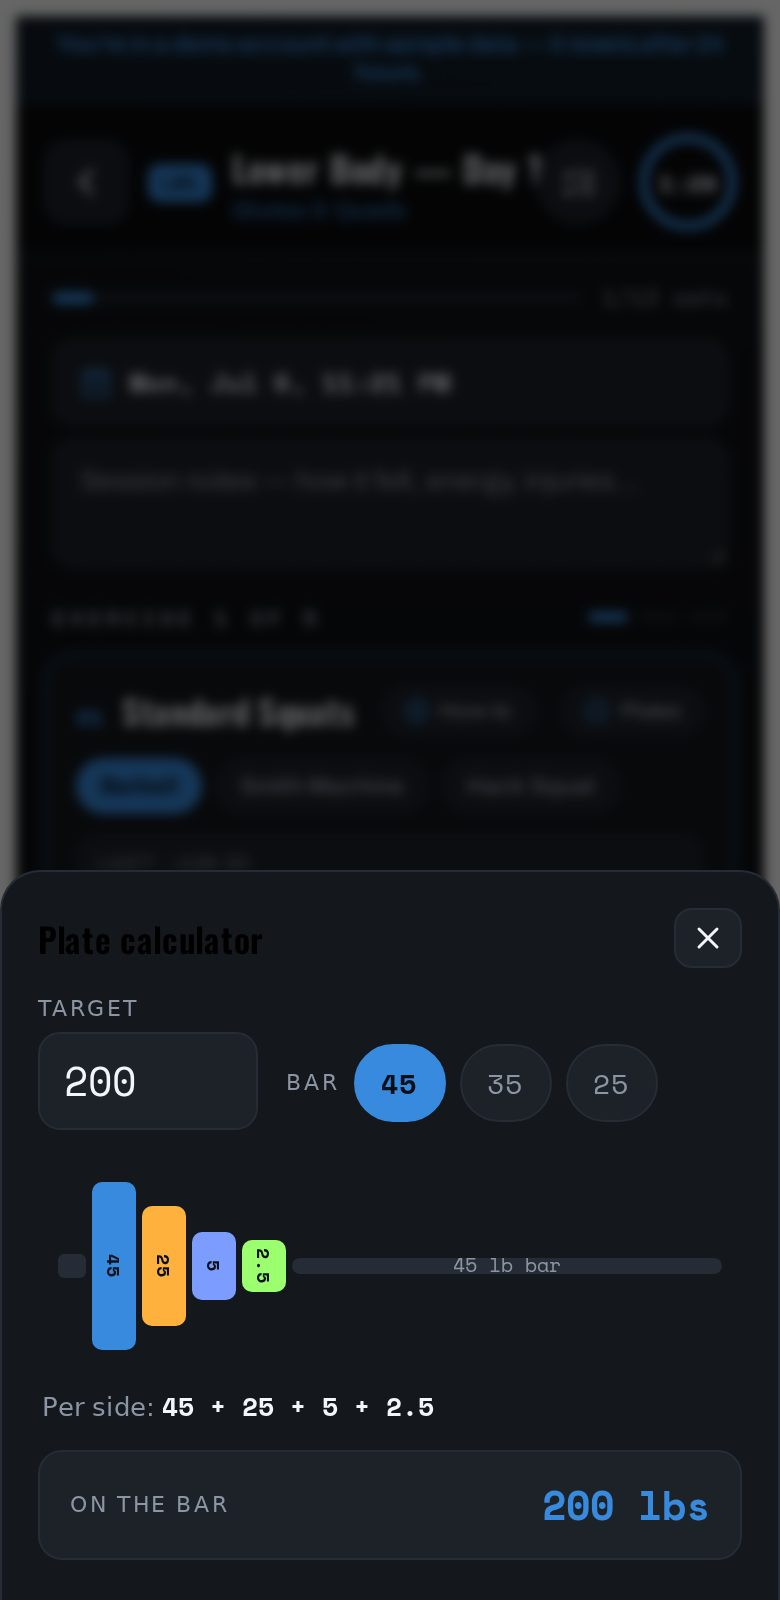
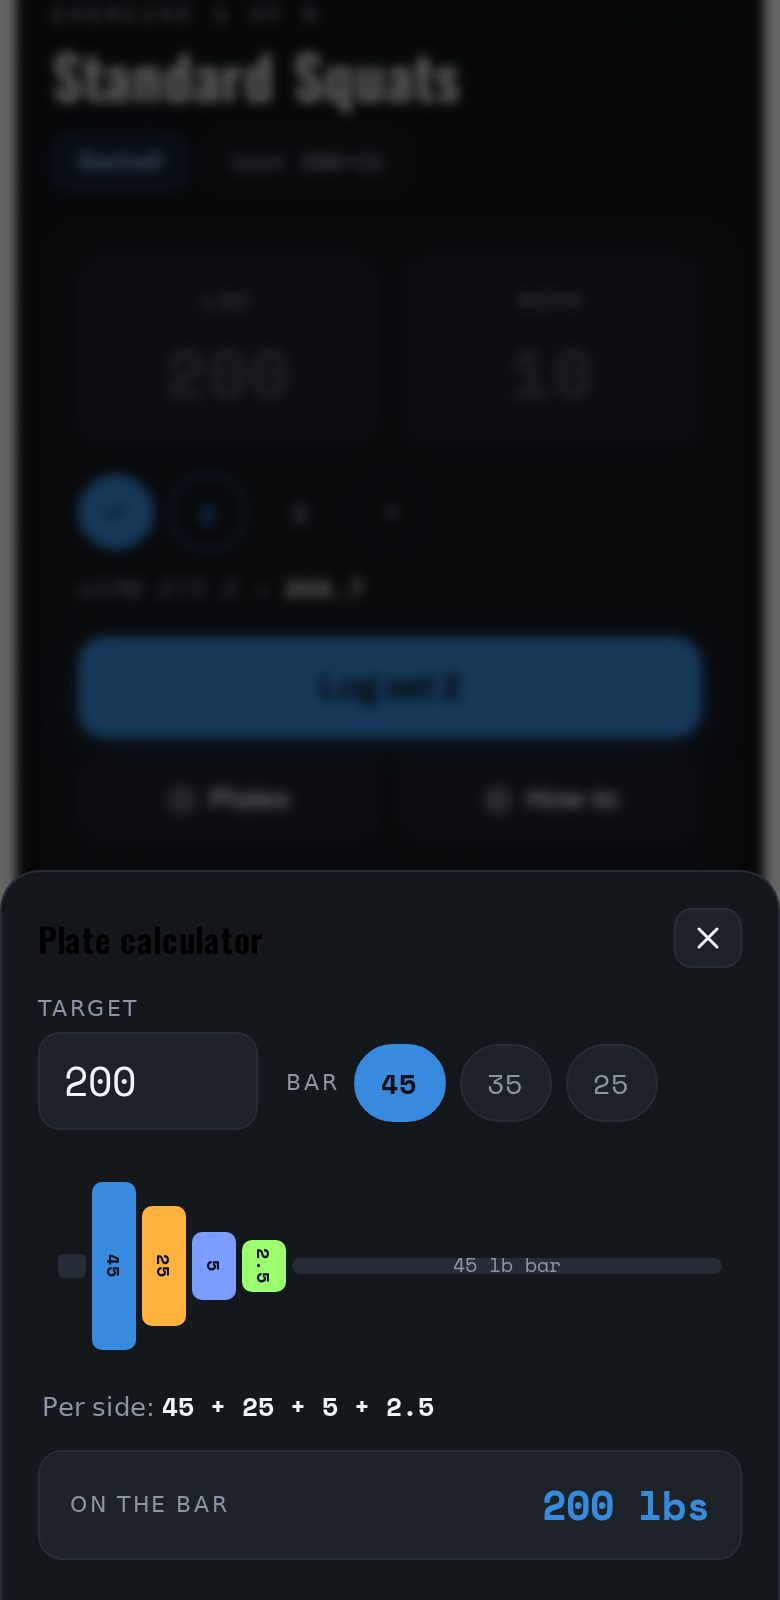
Focus mode v2: set-logger HUD (one set at a time)
Rebuilds the live-session focus screen around a single set, per design mock
— frontend only, no API or data-shape changes:

- Top strip "{TAG} · LIVE  {done}/{total} SETS" (EDITING when re-opened
  from History); progress bar + date/notes move below the HUD flow.
- Hero: "EXERCISE N OF M" eyebrow, big exercise name, chip row — tappable
  variation chip (cycles variations), "last WxR" reference chip, and the
  PR-pace chip when today's e1RM beats history.
- Set logger card: giant LBS/REPS tiles (34px mono, centered) bound to the
  current set, with last-time / previous-set numbers as placeholders (never
  auto-logged); circular set pips (done = filled check, current = outlined
  number, + = add set) that jump between sets; compact "e1RM hist -> today"
  readout; a full-width "Log set N" action (becomes "Undo set N" on a
  logged set); Plates / How-to buttons; per-exercise note.
- Current-set resolution mirrors exercise focus: tapped pip wins, else
  first unlogged set; logging clears the selection so the HUD advances
  set-by-set, then exercise-by-exercise.
- Rest ring gains a small REST sublabel under the countdown.
- List mode, all card internals, and every data operation unchanged.
- README session screenshot regenerated.

Verified with Playwright: log/undo, pip jumps, placeholder suggestions,
variation cycling, exercise auto-advance, NEXT/queue nav, list toggle;
82 tests + build green.

diff --git a/src/workout-tracker.jsx b/src/workout-tracker.jsx
@@ -1182,6 +1182,12 @@ function ActiveSession({ active, setActive, sessions, onFinish, onCancel }) {
   const focusedIdx = focusedEx ? exs.findIndex((e) => e.key === focusedEx.key) : -1;
   const nextEx = focusedIdx >= 0 ? exs[focusedIdx + 1] || null : null;
 
+  // Which SET owns the logger tiles: a manually-tapped pip wins, else the first
+  // unlogged set, else the last. Cleared whenever the focused exercise changes
+  // or a set is (un)logged, so the HUD auto-advances.
+  const [setSel, setSetSel] = useState(null);
+  useEffect(() => { setSetSel(null); }, [focusedEx?.key]); // eslint-disable-line react-hooks/exhaustive-deps
+
   // One exercise card — identical internals in both modes; `inFocus` only
   // adds the supersized-for-the-gym styling hooks.
   const renderExCard = (ex, ei, inFocus) => {
@@ -1302,6 +1308,152 @@ function ActiveSession({ active, setActive, sessions, onFinish, onCancel }) {
     );
   };
 
+  // Focus-mode HUD: hero header + one SET at a time with giant tiles and a
+  // single Log action. Same data operations as the card — different shell.
+  const renderFocusHud = () => {
+    const ex = focusedEx;
+    const last = lastPerformance(sessions, ex.name, ex.variation, active.id);
+    const curBest = bestSetE1rm(ex.sets);
+    const histBest = historicalBestE1rm(sessions, ex.name, ex.variation, active.id);
+    const isPR = curBest > 0 && curBest > histBest;
+    const sets = ex.sets;
+    const firstOpen = sets.findIndex((st) => !st.done);
+    const curIdx = setSel != null && setSel < sets.length
+      ? setSel
+      : (firstOpen !== -1 ? firstOpen : sets.length - 1);
+    const cur = sets[curIdx];
+    const lastTop = last?.sets?.[0];
+    // suggested numbers, shown as placeholders only (never auto-logged)
+    const phW = (curIdx > 0 && sets[curIdx - 1].w !== "" ? sets[curIdx - 1].w : last?.sets?.[curIdx]?.w) || "lbs";
+    const phR = last?.sets?.[curIdx]?.r || "reps";
+    const round1 = (n) => Math.round(n * 10) / 10;
+
+    return (
+      <div className="hud fade-in">
+        <div className="hud-top">
+          <span>{active.tag || "DAY"} · {editing ? "EDITING" : "LIVE"}</span>
+          <span>{doneSets}/{totalSets} SETS</span>
+        </div>
+
+        <div className="hud-hero">
+          <div className="hud-eyebrow">EXERCISE {focusedIdx + 1} OF {exs.length}</div>
+          <h2 className="hud-name">{ex.name}</h2>
+          <div className="hud-chips">
+            {ex.variations.length > 0 && (
+              <button
+                className="hud-chip hud-chip-var"
+                title="switch variation"
+                onClick={() => setVariation(
+                  ex.key,
+                  ex.variations[(Math.max(0, ex.variations.indexOf(ex.variation)) + 1) % ex.variations.length]
+                )}
+              >{ex.variation || ex.variations[0]}</button>
+            )}
+            {lastTop && <span className="hud-chip hud-chip-last">last {lastTop.w || "–"}×{lastTop.r || "–"}</span>}
+            {isPR && <span className="pace-chip">PR pace</span>}
+          </div>
+        </div>
+
+        {cur && (
+          <div className="hud-logger">
+            <div className="hud-tiles">
+              <label className="hud-tile">
+                <span>LBS</span>
+                <input
+                  inputMode="decimal" enterKeyHint="done" placeholder={String(phW)}
+                  value={cur.w} onChange={(e) => setField(ex.key, curIdx, "w", e.target.value)}
+                  onKeyDown={(e) => e.key === "Enter" && e.currentTarget.blur()}
+                />
+              </label>
+              <label className="hud-tile">
+                <span>REPS</span>
+                <input
+                  inputMode="numeric" enterKeyHint="done" placeholder={String(phR)}
+                  value={cur.r} onChange={(e) => setField(ex.key, curIdx, "r", e.target.value)}
+                  onKeyDown={(e) => e.key === "Enter" && e.currentTarget.blur()}
+                />
+              </label>
+            </div>
+
+            <div className="hud-mid">
+              <div className="hud-setpips">
+                {sets.map((st, i) => (
+                  <button
+                    key={i}
+                    className={`setpip ${st.done ? "setpip-done" : ""} ${i === curIdx ? "setpip-cur" : ""}`}
+                    onClick={() => setSetSel(i)}
+                    aria-label={`set ${i + 1}${st.done ? ", logged" : ""}`}
+                  >{st.done ? <Check size={14} /> : i + 1}</button>
+                ))}
+                <button className="setpip setpip-add" onClick={() => addSet(ex.key)} aria-label="add a set">
+                  <Plus size={14} />
+                </button>
+              </div>
+              {curBest > 0 && (
+                <span className="hud-e1rm">
+                  e1RM {histBest > 0 ? round1(histBest) : "—"} → <b className={isPR ? "e1rm-up" : ""}>{round1(curBest)}</b>
+                </span>
+              )}
+            </div>
+
+            <button
+              className={`hud-log ${cur.done ? "hud-log-undo" : ""}`}
+              onClick={() => { toggleDone(ex.key, curIdx); setSetSel(null); }}
+            >
+              {cur.done ? `Undo set ${curIdx + 1}` : `Log set ${curIdx + 1}`}
+            </button>
+
+            <div className="hud-aux">
+              <button onClick={() => {
+                const typed = [...sets].reverse().find((st) => st.w !== "")?.w;
+                setPlateTarget({ value: (cur.w || typed || lastTop?.w) ?? "" });
+              }}>
+                <Disc size={14} /> Plates
+              </button>
+              <button onClick={() => setHelp({ name: ex.name, variation: ex.variation })}>
+                <PlayCircle size={14} /> How-to
+              </button>
+            </div>
+
+            <input
+              className="ex-note hud-note"
+              placeholder="＋ note (form cue, pain, tempo…)"
+              value={ex.note || ""}
+              onChange={(e) => setExNote(ex.key, e.target.value)}
+            />
+          </div>
+        )}
+      </div>
+    );
+  };
+
+  // date + session-note rows — rendered up top in list mode, below the HUD in
+  // focus mode (same nodes, so nothing here changes behavior)
+  const sessionMeta = (
+    <>
+      <div className="date-row">
+        <label className="date-field">
+          <CalendarDays size={16} />
+          <span className="date-text">{fmtDateTime(active.startedAt)}</span>
+          <input
+            type="datetime-local"
+            className="date-input"
+            value={tsToLocalInput(active.startedAt)}
+            onChange={(e) => setDate(e.target.value)}
+          />
+        </label>
+      </div>
+      <div className="note-row">
+        <textarea
+          className="session-note" rows={2}
+          placeholder="Session notes — how it felt, energy, injuries…"
+          value={active.note || ""}
+          onChange={(e) => setNote(e.target.value)}
+        />
+      </div>
+    </>
+  );
+
   return (
     <div className="session">
       <header className="session-head">
@@ -1324,50 +1476,25 @@ function ActiveSession({ active, setActive, sessions, onFinish, onCancel }) {
         <RestTimer autoSignal={restSignal} />
       </header>
 
-      <div className="progress-wrap">
-        <div className="progress-bar"><div className="progress-fill" style={{ width: `${pct}%` }} /></div>
-        <span className="progress-txt">{doneSets}/{totalSets} sets</span>
-      </div>
+      {(mode === "list" || !focusedEx) && (
+        <div className="progress-wrap">
+          <div className="progress-bar"><div className="progress-fill" style={{ width: `${pct}%` }} /></div>
+          <span className="progress-txt">{doneSets}/{totalSets} sets</span>
+        </div>
+      )}
 
-      <div className="date-row">
-        <label className="date-field">
-          <CalendarDays size={16} />
-          <span className="date-text">{fmtDateTime(active.startedAt)}</span>
-          <input
-            type="datetime-local"
-            className="date-input"
-            value={tsToLocalInput(active.startedAt)}
-            onChange={(e) => setDate(e.target.value)}
-          />
-        </label>
-      </div>
-
-      <div className="note-row">
-        <textarea
-          className="session-note" rows={2}
-          placeholder="Session notes — how it felt, energy, injuries…"
-          value={active.note || ""}
-          onChange={(e) => setNote(e.target.value)}
-        />
-      </div>
+      {(mode === "list" || !focusedEx) && sessionMeta}
 
       <main className="session-body">
         {mode === "list" || !focusedEx ? (
           exs.map((ex, ei) => renderExCard(ex, ei, false))
         ) : (
           <>
-            <div className="hud-strip fade-in">
-              <span className="hud-label">EXERCISE {focusedIdx + 1} OF {exs.length}</span>
-              <span className="hud-pips" aria-hidden="true">
-                {focusedEx.sets.map((st, i) => <i key={i} className={st.done ? "pip-on" : ""} />)}
-              </span>
-            </div>
-
-            {renderExCard(focusedEx, focusedIdx, true)}
+            {renderFocusHud()}
 
             {nextEx && (
               <button className="next-ex-btn" onClick={() => setFocusKey(nextEx.key)}>
-                NEXT ▸ {nextEx.name} · {nextEx.sets.length} set{nextEx.sets.length === 1 ? "" : "s"}
+                NEXT ▸ {nextEx.name} · {nextEx.sets.length} SET{nextEx.sets.length === 1 ? "" : "S"}
               </button>
             )}
 
@@ -1381,6 +1508,9 @@ function ActiveSession({ active, setActive, sessions, onFinish, onCancel }) {
                 </button>
               ))}
             </div>
+
+            {/* session-level date + notes tuck below the HUD flow in focus mode */}
+            <div className="hud-session-meta">{sessionMeta}</div>
           </>
         )}
         <div style={{ height: 96 }} />
@@ -1628,7 +1758,10 @@ function RestTimer({ autoSignal = 0 }) {
                 transform="rotate(-90 24 24)"
               />
             </svg>
-            <span className={`timer-count ${remaining >= 600 ? "timer-count-sm" : ""}`}>{mmss}</span>
+            <span className={`timer-count ${remaining >= 600 ? "timer-count-sm" : ""}`}>
+              {mmss}
+              <i className="timer-sub">REST</i>
+            </span>
           </span>
         ) : <Timer size={20} />}
       </button>
@@ -3489,9 +3622,12 @@ function FontsAndStyles() {
       .ring-track { fill:none; stroke:var(--surface2); stroke-width:4; }
       .ring-arc { fill:none; stroke:var(--accent); stroke-width:4; stroke-linecap:round;
         transition:stroke-dashoffset .25s linear; }
-      .timer-ring .timer-count { position:absolute; inset:0; display:flex; align-items:center;
-        justify-content:center; font-size:12px; color:var(--text); }
+      .timer-ring .timer-count { position:absolute; inset:0; display:flex; flex-direction:column;
+        align-items:center; justify-content:center; gap:1px; line-height:1;
+        font-size:12px; color:var(--text); }
       .timer-ring .timer-count.timer-count-sm { font-size:10px; letter-spacing:0; }
+      .timer-sub { font-style:normal; font-size:6.5px; font-weight:700; letter-spacing:.18em;
+        color:var(--muted); }
 
       .session-title { flex:1; display:flex; align-items:center; gap:10px; min-width:0; }
       .session-title h2 { font-size:18px; font-weight:600; white-space:nowrap; overflow:hidden; text-overflow:ellipsis; }
@@ -3514,22 +3650,63 @@ function FontsAndStyles() {
       .session-body { flex:1; padding:6px 14px 0; }
       .ex-card { background:var(--surface); border:1px solid var(--line); border-radius:15px; padding:15px; margin-bottom:13px; }
 
-      /* FOCUS MODE — one exercise owns the screen */
+      /* FOCUS MODE — one SET owns the screen (HUD) */
       .mode-toggle { border-radius:50%; }
-      .hud-strip { display:flex; align-items:center; justify-content:space-between; gap:12px;
-        padding:2px 4px 10px; }
-      .hud-label { font-family:'Space Mono',monospace; font-size:11px; font-weight:700;
+      .hud-top { display:flex; align-items:center; justify-content:space-between;
+        padding:6px 4px 14px; font-family:'Space Mono',monospace; font-size:11px; font-weight:700;
+        letter-spacing:.22em; color:var(--muted); }
+      .hud-hero { padding:0 4px 14px; }
+      .hud-eyebrow { font-family:'Space Mono',monospace; font-size:11px; font-weight:700;
         letter-spacing:.18em; color:var(--muted); }
-      .hud-pips { display:flex; gap:5px; }
-      .hud-pips i { width:20px; height:5px; border-radius:3px; background:var(--surface2);
-        transition:background .2s; }
-      .hud-pips i.pip-on { background:var(--accent); }
-      .ex-focus { border-color:rgba(55,138,221,.5);
-        box-shadow:0 0 0 1px rgba(55,138,221,.22), 0 12px 34px rgba(0,0,0,.35); }
-      .ex-focus .set-input { font-size:20px; font-weight:700; padding:15px 4px; }
-      .ex-focus .check { width:46px; height:46px; border-radius:50%; }
-      .ex-focus .del-set { height:46px; }
-      .next-ex-btn { width:100%; background:none; border:1px dashed var(--line); color:var(--muted);
+      .hud-name { margin:6px 0 10px; font-family:'Oswald'; font-weight:600; font-size:30px;
+        line-height:1.1; }
+      .hud-chips { display:flex; align-items:center; gap:8px; flex-wrap:wrap; }
+      .hud-chip { border-radius:9px; padding:7px 12px; font-family:'Archivo'; font-size:13px;
+        font-weight:600; border:1px solid var(--line); }
+      .hud-chip-var { background:rgba(55,138,221,.14); border-color:rgba(55,138,221,.4);
+        color:var(--accent-2); cursor:pointer; }
+      .hud-chip-last { background:var(--surface); color:var(--muted);
+        font-family:'Space Mono',monospace; font-size:12px; }
+      .hud-logger { background:var(--surface); border:1px solid var(--line); border-radius:18px;
+        padding:16px; }
+      .hud-tiles { display:grid; grid-template-columns:1fr 1fr; gap:12px; }
+      .hud-tile { display:flex; flex-direction:column; align-items:center; gap:2px;
+        background:var(--surface2); border:1px solid var(--line); border-radius:14px;
+        padding:14px 8px 10px; }
+      .hud-tile:focus-within { border-color:var(--accent); }
+      .hud-tile span { font-family:'Space Mono',monospace; font-size:10px; font-weight:700;
+        letter-spacing:.22em; color:var(--muted); }
+      .hud-tile input { width:100%; background:none; border:none; outline:none; text-align:center;
+        color:var(--text); font-family:'Space Mono',monospace; font-size:34px; font-weight:700; }
+      .hud-tile input::placeholder { color:#4a5260; }
+      .hud-mid { display:flex; align-items:center; justify-content:space-between; gap:10px;
+        margin:14px 0; flex-wrap:wrap; }
+      .hud-setpips { display:flex; gap:8px; flex-wrap:wrap; }
+      .setpip { width:38px; height:38px; border-radius:50%; display:flex; align-items:center;
+        justify-content:center; background:none; border:1.5px solid var(--line); color:var(--muted);
+        font-family:'Space Mono',monospace; font-size:14px; font-weight:700; cursor:pointer; }
+      .setpip-cur { border-color:var(--accent); color:var(--accent); }
+      .setpip-done { background:var(--accent); border-color:var(--accent); color:#071019; }
+      .setpip-add { border-style:dashed; }
+      .hud-e1rm { font-family:'Space Mono',monospace; font-size:12.5px; color:var(--muted); }
+      .hud-e1rm b { color:var(--text); font-weight:700; }
+      .hud-e1rm b.e1rm-up { color:var(--accent-2); }
+      .hud-log { width:100%; background:var(--accent); color:#071019; border:none; border-radius:14px;
+        font-family:'Archivo'; font-size:17px; font-weight:700; padding:16px; cursor:pointer;
+        box-shadow:0 8px 24px rgba(55,138,221,.22); }
+      .hud-log:active { transform:scale(.99); }
+      .hud-log-undo { background:var(--surface2); color:var(--muted); border:1px solid var(--line);
+        box-shadow:none; }
+      .hud-aux { display:grid; grid-template-columns:1fr 1fr; gap:10px; margin-top:10px; }
+      .hud-aux button { display:flex; align-items:center; justify-content:center; gap:7px;
+        background:var(--surface2); border:1px solid var(--line); color:var(--text);
+        font-family:'Archivo'; font-size:14px; font-weight:600; padding:12px; border-radius:12px;
+        cursor:pointer; }
+      .hud-aux button:active { border-color:var(--accent); color:var(--accent); }
+      .hud-note { margin-top:10px; }
+      .hud-session-meta { margin-top:16px; }
+      .hud-session-meta .date-row, .hud-session-meta .note-row { padding-left:0; padding-right:0; }
+      .next-ex-btn { width:100%; background:none; border:1px dashed var(--line); color:var(--muted); text-transform:uppercase;
         font-family:'Space Mono',monospace; font-size:12px; font-weight:700; letter-spacing:.08em;
         padding:13px 15px; border-radius:12px; cursor:pointer; margin-bottom:13px; text-align:left;
         white-space:nowrap; overflow:hidden; text-overflow:ellipsis; transition:border-color .15s, color .15s; }
